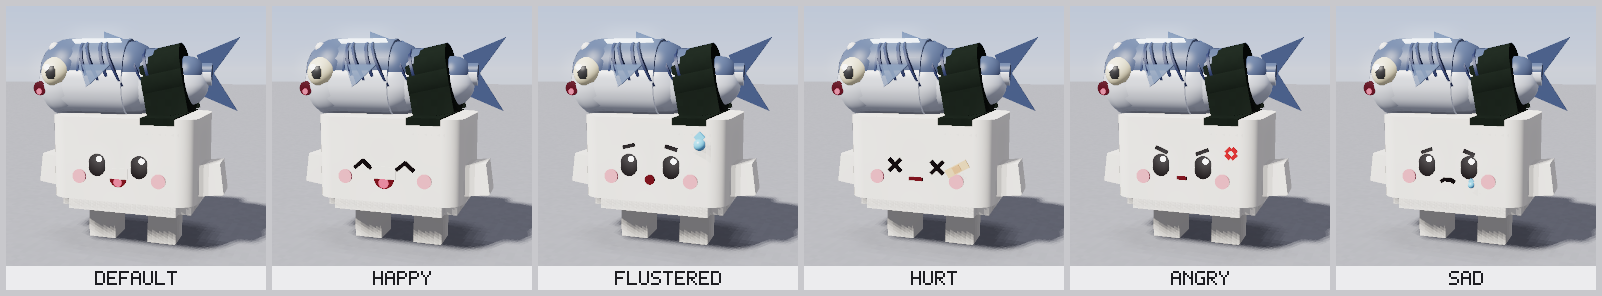
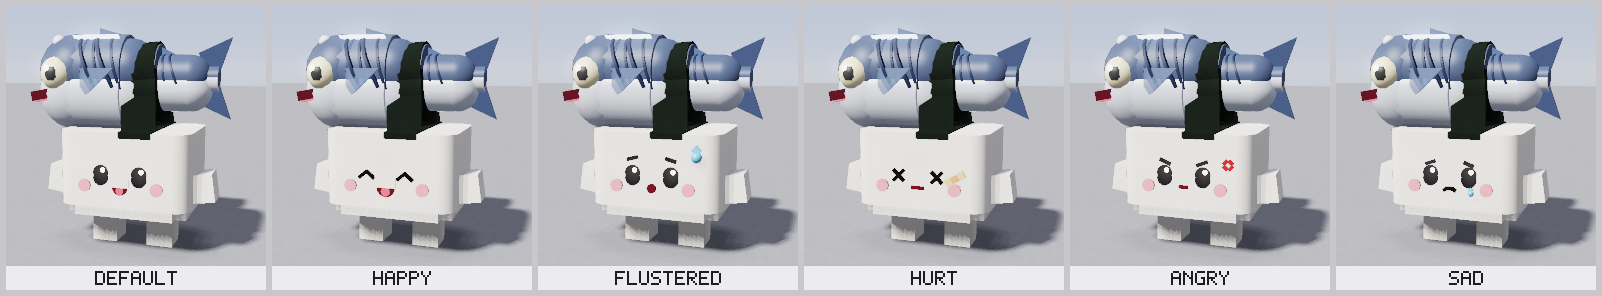
docs(m5-32): 4th decision renders and notes, spec in-qa; per-skin name tag in older top tests

diff --git a/docs/specs/m5-32-fresh-mackerel.md b/docs/specs/m5-32-fresh-mackerel.md
@@ -1,4 +1,4 @@
-status: in-dev
+status: in-qa
 <!-- draft | ready | in-dev | in-qa | qa-passed | done -->
 
 # m5-32 — 전설 스킨 "고등어 초밥 [신선]" (팔딱거리는 통고등어)
@@ -171,6 +171,14 @@ status: in-dev
 - 2026-10-14 · 개발 · 김 띠: 고등어 띠·자락은 스펙대로 FishMid에 붙어 움직이고, 시트의 "밥까지 감은 김"은 Body에 용접된 **밥 김** `NoriWrap`(밥 윗면 가장자리 + 앞면 위 0.17 — 얼굴의 땀·💢·눈썹을 가리지 않게)·`NoriWrapBack`(뒷면 0.3까지)으로 만듦. 팔딱으로 고등어가 들리면 잠깐 띠와 밥 김 사이가 벌어짐("김에서 튀어 오름"). 이름이 `Fish`가 아니라 고등어 파츠 검사 대신 전용 테스트로 고정 · 개발
 - 2026-10-14 · 개발 · 소리 간격: "캐릭터당 0.25초에 한 번"을 소리마다(FishFlop·FishSplash 각각)로 — 팔딱과 첨벙은 짝이라 같이 울림 (`CharacterAnimLogic.fishSoundFilter`) · 개발
 - 2026-10-14 · 개발 · 파츠 수: 기본 75·신남 71·당황 77·아픔 71·화남 79·슬픔 79 (상한 80) · 개발
+- **2026-10-14 (4차, 사용자 결정 — 메인 세션 전달)** · 이름표·크기 · "이 스킨만 이름표를 위로 올리기": 고등어일 때만 이름표를 높이 띄우고, 그 여유로 고등어를 시트처럼 크게 + 위아래 팔딱(들썩·C자 아치)을 크게. 다른 스킨은 이름표·모양 그대로 · 사용자
+- 2026-10-14 (4차) · 개발 · 이름표 높이 **4.8** (기본 3.6). `SushiBody.CONCEPT_BODY["fresh-mackerel"].nameTagHeight` → `SushiBody.nameTagHeight(id)`(기본 3.6), `SushiBody.build`가 기본과 다른 스킨의 Body에 `NameTagHeight` 속성을 달아 클라이언트 이름표(👑·칭호 줄 포함)가 읽음, 로비 단상 이름표는 클라이언트가 (높이 − 3.6) × 단상 배율만큼 로컬로 올림, 렌더러 이름표도 같은 값. 스킨 id 분기 없음. 한도: 쉰 꼭대기 ≤ 4.4(지금 3.74), **관절 한도 끝까지(들썩 0.45·아치 20°·휨 20°·비틀림 12°·꼬리 40°·뒷몸 16°·물방울 1) 팔딱해도 ≤ 4.8**(지금 최대 약 4.68) — 테스트로 고정. 4.8은 그 최대값 + 여유 약 0.1, 렌더(gameplay-front)에서 이름표가 고등어와 안 겹치고 너무 뜨지 않음 · 개발
+- 2026-10-14 (4차) · 개발 · 고등어 크기: 몸 높이 약 2.7(밥 높이 2.0보다 큼), 폭 2.1, 길이 5.9(외곽 X 한도 5.95 안), 머리 공이 몸보다 큼, 꼬리 V 갈래 1.02. 김 띠는 기울기 4°로 줄여 고등어+밥을 감은 띠로(9°에서는 띠·자락 윤곽이 계단처럼 보임), 입은 원판 대신 주둥이 끝 아래 짙은 틈 + 분홍 혀(빨간 코로 안 읽히게), 줄무늬는 기울기를 번갈아(14°·24°) 물결처럼. 파츠 기본 74 · 화남·슬픔 78 (상한 80) · 개발
+- 2026-10-14 (4차) · 개발 · 팔딱 수치: 가끔 팔딱 들썩 0.4·아치 16°·뒷몸 휨 8°·꼬리 휨 9°·비틀림 10°, 착지 들썩 0.45·아치 15°·휨 8°/9°·비틀림 8°, 점프 아치 12°/9°/11°. 비틀림 상한 12°(`MAX_TWIST`) 새로. 다른 한도(40°·20°·0.45·7 Hz)는 그대로 · 개발 (QA 팔딱 의견 반영)
+- 2026-10-14 (4차) · 개발 · QA B1: 겹친 상태는 더하기만 하지 않고 섞어 줄임 — 가끔 팔딱 엔벨로프·들썩·물방울 × (1 − 공중 정도) × 서 있음 정도(달리면 줄어요), 착지 팔딱 × (1 − 공중 정도)(착지 팔딱 중 다시 점프). 공중 정도·달리기는 이미 부드러워서 끊기지 않음. 모든 상태 조합(모드 5 × 팔딱 × 착지 × 상승 4 × 걸음 3 × 넘어짐 3 × 시간)을 도는 테스트 · 개발
+- 2026-10-14 (4차) · 개발 · QA B2: 착지 때 `flopTime = nil`로 끊지 않음 — 진행 중 팔딱이 착지 팔딱과 섞여 한도로 묶임(테스트: 팔딱 중 착지 프레임 이음) · 개발
+- 2026-10-14 (4차) · 개발 · QA R2 — AC7 연속성 기준: "1/60초 꼬리 각 변화 ≤ 0.12 rad — 팔딱 순간 포함"은 6 Hz·35° 진동 자체가 한 프레임에 약 0.38 rad라 스펙끼리 모순. **상태가 바뀌는 순간(넘어짐·공중 섞기, 착지)에만 ≤ 0.12 rad, 그 밖의 프레임은 "그 순간 진동의 최대 속도 × 1/60 + 0.12" 이하**로 검사(`tests/m5-32-fresh-mackerel.spec.luau` AC7 연속성). 기획이 AC7 문구를 고칠 때 이 기준으로 · 개발
+- 2026-10-14 (4차) · 개발 · QA 위험(월드 인형): `DollAnimator`가 움직이는 고등어 파츠를 Anchored로 하고, 그 파츠를 붙잡던 용접·Motor6D(Part1 = 그 파츠)를 끈 뒤 CFrame을 씀 — 용접이 남아 있으면 CFrame을 쓸 때 밥·얼굴·팔다리가 같이 끌려갈 수 있어서. Body와 나머지 파츠의 용접은 그대로 · 개발
 - **열린 질문 (사용자)**
   1. 파츠 상한: 콘셉트 상한 70 안에서 만든다. 렌더 비평에서 "줄무늬·지느러미 때문에 70으로는 시트 퀄리티가 안 나온다"고 판단되면 **이 스킨만 80**까지 올려도 될지(24명 모두 고등어면 캐릭터 파츠 약 1,900개 — 모두 충돌 없음·Massless). 추천: 70으로 먼저 해 보고, 개발이 렌더 근거를 붙여 요청하면 결정.
   2. 시트의 "화남"·"슬픔" 표정을 콘셉트 몸 전체 표정으로 추가할지 — 지금 게임에서 쓰는 곳(탈락 = 아픔, 우승 = 신남)이 없어서 이번엔 뺌. 추천: 나중에 감정 표현(이모트) 기능이 생기면.
@@ -186,3 +194,4 @@ status: in-dev
   - m5-31 재QA P3 R1(`detailPanel.Active = true`)·R2(이름·대사 칸 0.52, 휴대폰 큰 미리보기 0.44)도 이 브랜치에 있음.
   - AC19 현지화: main에 m5-26이 없어 해당 없음.
   - Studio 확인: 탈의실 전설 탭 카드·가짜 결제(AC14), `tickets 99` 뽑기 확률표·단상(AC14-1, 고등어 당첨은 평균 100장), 서기·달리기·점프·착지·넘어짐 움직임(AC15, Clients and Servers 2명), 인형(AC17), Future 조명(AC16), 8명 성능(AC18).
+- **2026-10-14 재QA 대응 완료 (`in-qa`)** — QA B1·B2·R2와 4차 결정(이름표 4.8, 고등어 크게, 팔딱 크게). 렌더는 `docs/renders/characters/fresh-mackerel-*.png` 갱신(4차 전 최종은 `-v1-sheet-compare`). Studio 확인 추가: 다른 플레이어 고등어의 이름표·👑·칭호가 고등어 위 4.8에 뜨는지, 로비 단상 우승자가 고등어면 단상 이름표가 인형 위로 올라가는지, 월드 인형(단상·우승·탈락)이 팔딱일 때 밥·얼굴이 같이 안 움직이는지.

diff --git a/docs/developer/m5-32-fresh-mackerel.md b/docs/developer/m5-32-fresh-mackerel.md
@@ -1,5 +1,42 @@
 # m5-32 고등어 초밥 [신선] — 개발 작업 기록
 
+## 2026-10-14 (4번째 세션) — QA 반려(B1·B2·R2) + 사용자 4차 결정(이름표 올리기), `in-qa`
+- 브랜치: `m5-32-fresh-mackerel` (같은 worktree). QA 커밋 4abcdb6을 pull한 뒤 작업.
+- 끝난 것
+  - **스킨별 이름표 높이**: `SushiBody.nameTagHeight(id)`(기본 3.6, 고등어 4.8 — 콘셉트 몸 예외 표 `nameTagHeight`). `SushiBody.build`가 기본과 다른 스킨의 Body에 `NameTagHeight` 속성 → `CharacterFxController` 이름표(👑·칭호 줄도 같은 BillboardGui)가 읽음. 로비 단상 이름표는 `LobbyFxController.placeDoll`이 로컬로 (높이 − 3.6) × 1.5만큼 올림(서버 `LobbyService`는 SushiBody를 몰라야 하는 규칙 그대로). 렌더러 `gameplay` 이름표도 같은 값. 스킨 id 분기 없음.
+  - **고등어 크게** (`ConceptMackerel.luau` 치수 다시): 몸 높이 2.7(밥 2.0보다 큼), 폭 2.1, 길이 5.9, 머리 공이 몸보다 큼, 꼬리 갈래 1.02. 김 띠는 기울기 4°(9°는 계단 윤곽), 띠 자락이 거의 곧게 밥 김 위에. 입은 주둥이 끝 아래 짙은 틈 + 분홍 혀. 줄무늬 기울기 번갈아. 파츠 기본 74 · 화남/슬픔 78.
+  - **팔딱 크게**: 들썩 0.4/0.45, 아치 16°/15°, 휨 8~9°, 비틀림 10°/8°(상한 `MAX_TWIST` 12°), 점프 아치 12°.
+  - **B1**: 팔딱 엔벨로프·들썩·물방울 × (1 − 공중) × 서 있음, 착지 팔딱 × (1 − 공중). 조합 전부를 도는 테스트 + 관절 한도 끝 자세 꼭대기 ≤ 4.8 테스트(이 테스트가 있어 어떤 조합도 이름표를 못 넘음).
+  - **B2**: 착지 때 `flopTime = nil` 지움(팔딱이 이어지며 착지 팔딱과 섞임) + 테스트.
+  - **R2**: AC7 연속성 기준 변경을 스펙 결정 기록에.
+  - **QA 위험(월드 인형)**: `DollAnimator.attach`가 움직일 파츠를 다 찾은 뒤 그 파츠를 붙잡던 용접·Motor6D(Part1 = 그 파츠)를 `Enabled = false`로 끄고 CFrame만 씀. 밥·얼굴·팔다리 용접은 그대로. 고정 테스트 추가.
+  - 기존 테스트 2개(m5-25-qa, m5-28 이름표 아래)를 스킨별 이름표 높이로. QA 테스트 `m5-32-qa`의 한도도 `nameTagHeight(ID)`로(4차 결정 반영, 기대값 의미는 그대로).
+- 검증: rojo build·stylua·selene(0/0/0)·`lune run tests` **1943 passed, 0 failed**·luau-lsp 끝 코드 0.
+- 남은 것: 재QA, 사용자 Studio 확인.
+- 다음 첫 단계(QA): `tests/m5-32-qa.spec.luau`·`m5-32-fresh-mackerel.spec.luau` 통과 확인, 렌더 시트 비교.
+- 막힌 점: 없음.
+
+### 렌더 비평 (4차, 시트와 나란히) — 5·6·7회차
+**5회차** (크기 키운 첫 렌더)
+- 정면(시트 대비): 고등어가 밥만큼 높아지고 밥보다 길어져 시트 비율에 가까워짐 — "파란 소시지" 인상이 많이 줄었음. 다른 점: 입이 주둥이 끝의 아주 작은 빨간 점이라 거의 안 보임. 김 띠 윤곽이 계단처럼 꺾여(띠 등·배 원기둥 + 기운 자락) "찢어진 판"처럼 보임. 줄무늬가 어깨에서 X자로 엇갈림.
+- 3/4: 머리·눈이 크고 김이 밥까지 이어짐. 꼬리가 커진 몸에 비해 작음.
+- 후면: 김 자락이 밥 뒷면으로 길게 — 시트 후면과 비슷.
+- 팔딱(flop-strip): 0.17~0.33초에 고등어가 크게 떠오르고 머리·꼬리가 같이 들려 C자가 또렷함(QA "아치 약함" 해결). 이름표(4.8)는 고등어 위에 떨어져 뜸.
+**고침**: 입 틈을 두껍고 길게(옆으로 드러나게), 띠 자락 아래끝을 안쪽(z 0.98)으로 — 거의 곧게, 꼬리 갈래 0.9 → 1.02(외곽 X 5.95 안으로 꼬리를 0.05 당김), 줄무늬 기울기 차이 줄이기.
+**6회차**
+- 정면: 입이 주둥이 끝 아래 짙은 틈으로 보여 "벌린 입"으로 읽힘(빨간 코 아님). 띠 윤곽은 여전히 계단.
+**고침**: 김 띠 기울기 9° → 4°(띠·자락이 한 줄로), 뒷몸 줄무늬 하나가 앞몸 뒤끝 공 속에서 앞몸 줄무늬와 엇갈리던 것을 뒷마디로 옮김, 입 틈이 주둥이 밖으로 삐져나오지 않게 조금 뒤로.
+**7회차 (최종)**
+- 정면: 고등어가 밥 위를 덮는 비율, 큰 크림 눈, 벌린 입 틈, 은빛 배·청회색 등·윤기 띠, 곧게 감은 김 띠 + 밥 김. 시트와 남은 차이: 시트보다 조금 작고(외곽 X 한도), 줄무늬는 물결이 아니라 번갈아 기운 사선, 김 띠가 시트보다 덜 기울었음.
+- 3/4·후면: 시트와 같은 인상. 휴대폰 뒤 카메라에서 청회색 등 + 흰 배 + 검은 김 + V꼬리로 고등어로 읽힘.
+- poses: JUMPARCH·LANDPEAK·SPLASH에서 몸이 활처럼 휘고 크게 떠오름, 물방울 4개. 뒤 카메라에서도 위아래 움직임이 커서 "팔딱"이 보임.
+
+### Studio 확인 추가 (위 목록에 더해)
+- 다른 플레이어 고등어의 이름표·👑·칭호 줄이 고등어 위(4.8)에 뜨고 팔딱해도 안 겹치는지, 다른 스킨 이름표는 그대로(3.6)인지.
+- 로비 단상 우승자가 고등어면 단상 이름표가 인형 위로 올라가 있는지(다른 스킨이면 예전 자리).
+- 우승 연출·로비 단상·탈락 연출의 고등어 인형이 팔딱일 때 밥·얼굴·팔다리가 같이 움직이거나 떨리지 않는지.
+- 소개·탈락·우승 카메라에서 고등어가 잘리지 않는지(카메라는 12 studs 이상 떨어져 있어 1.2 높아진 것은 화면 안이라고 봤지만 Studio에서 확인).
+
 ## 2026-10-14 (3번째 세션) — 아트 패스·소리 간격·정리, `in-qa`
 - 브랜치: `m5-32-fresh-mackerel` (worktree `.claude/worktrees/agent-a10906f098e1dcf01`), main 8f700a4에서 시작. main 병합 안 함.
 - 끝난 것
